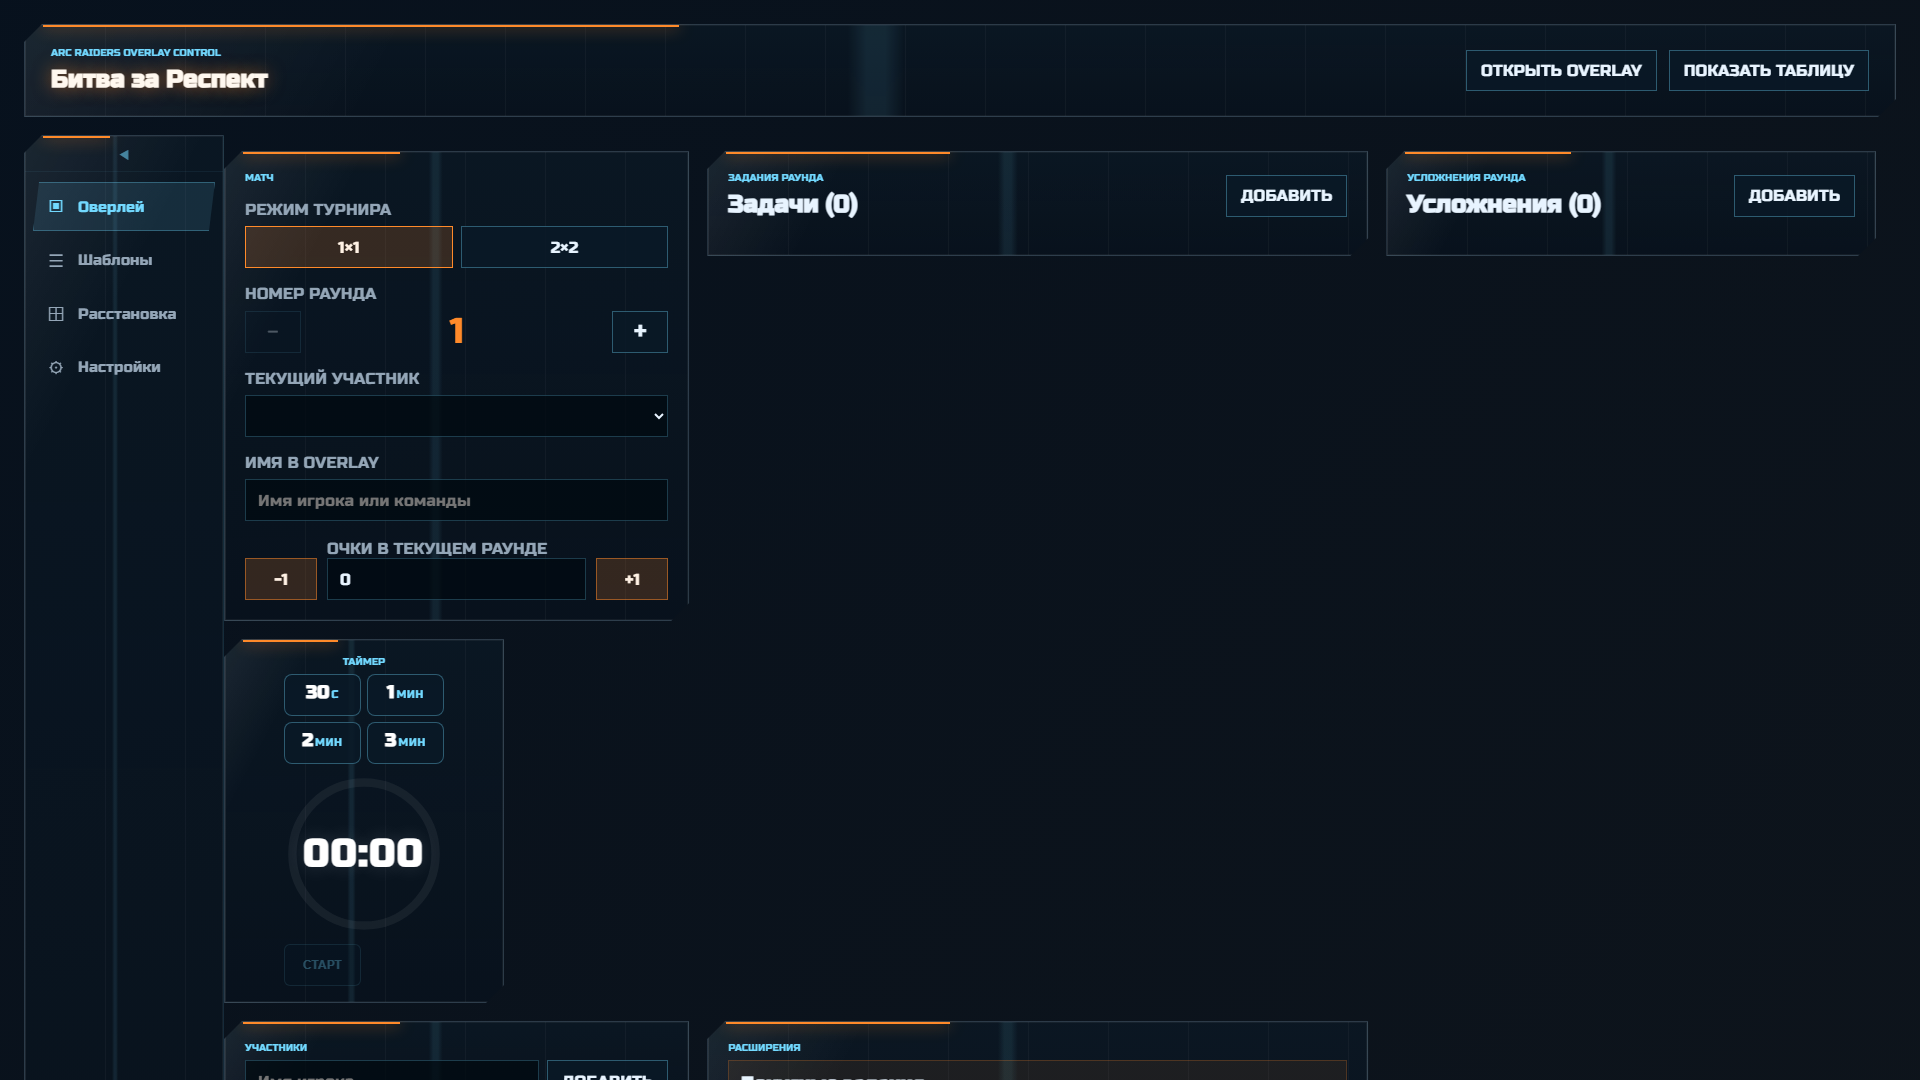
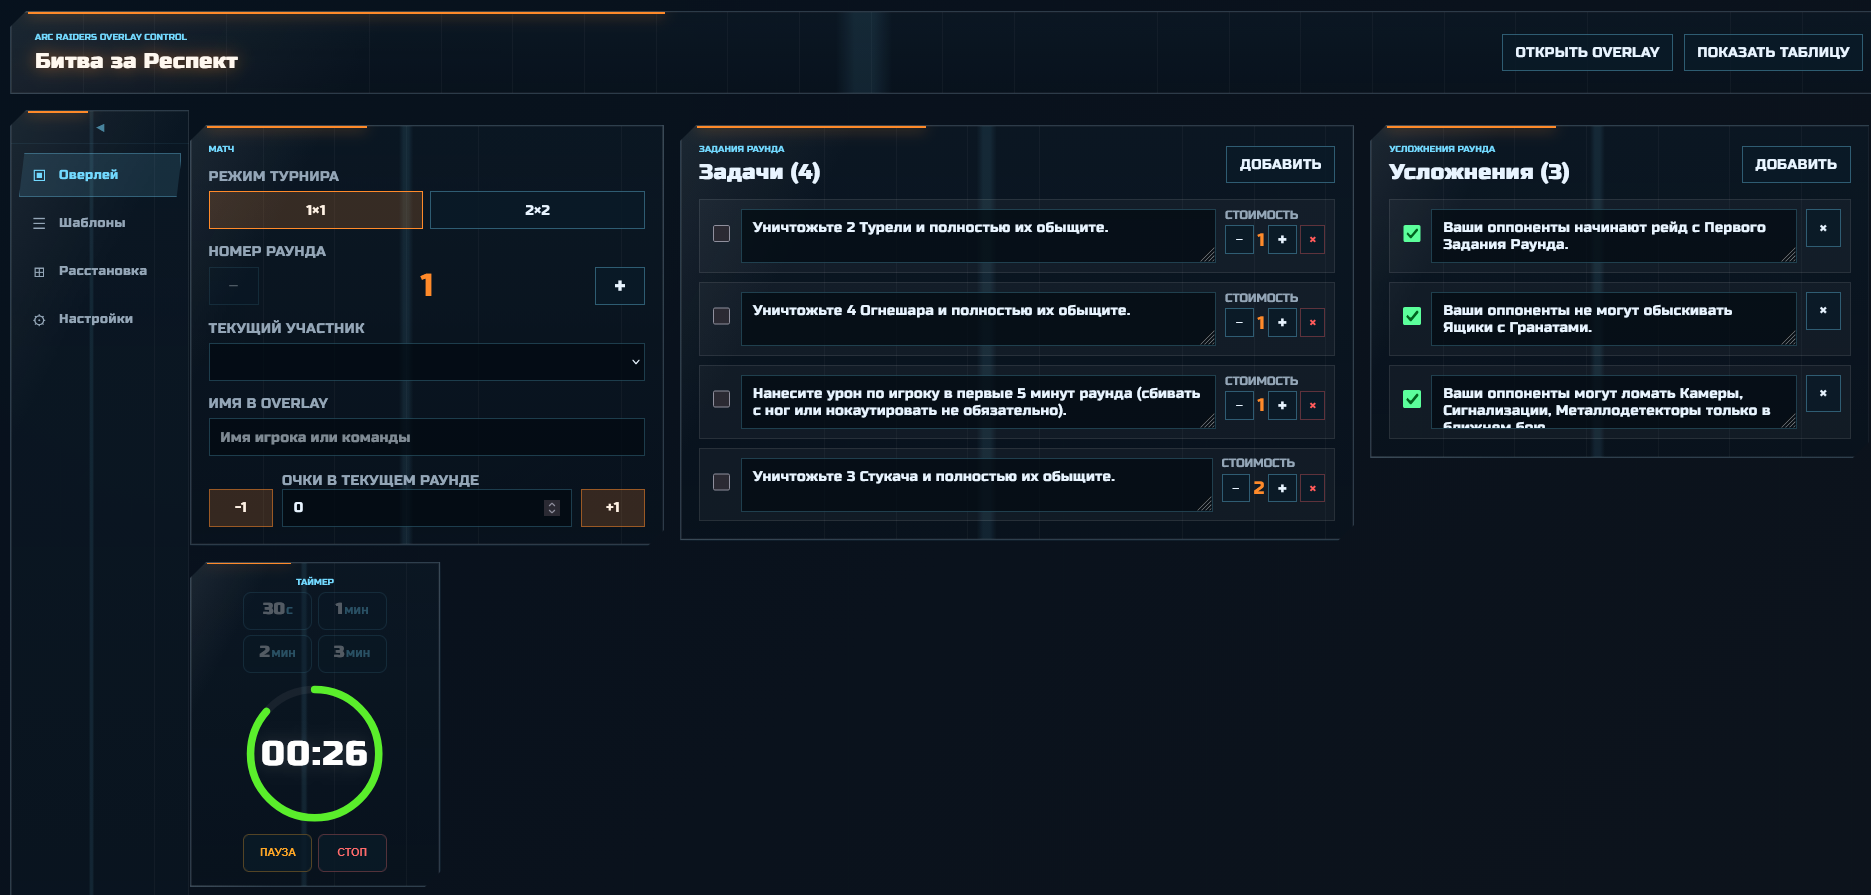
docs: заменить скриншоты на авторские

diff --git a/README.md b/README.md
@@ -10,6 +10,10 @@
 
 ![Админ-панель](admin.png)
 
+### Оверлей для OBS
+
+![Оверлей](overlay.png)
+
 ---
 
 ## Быстрый запуск